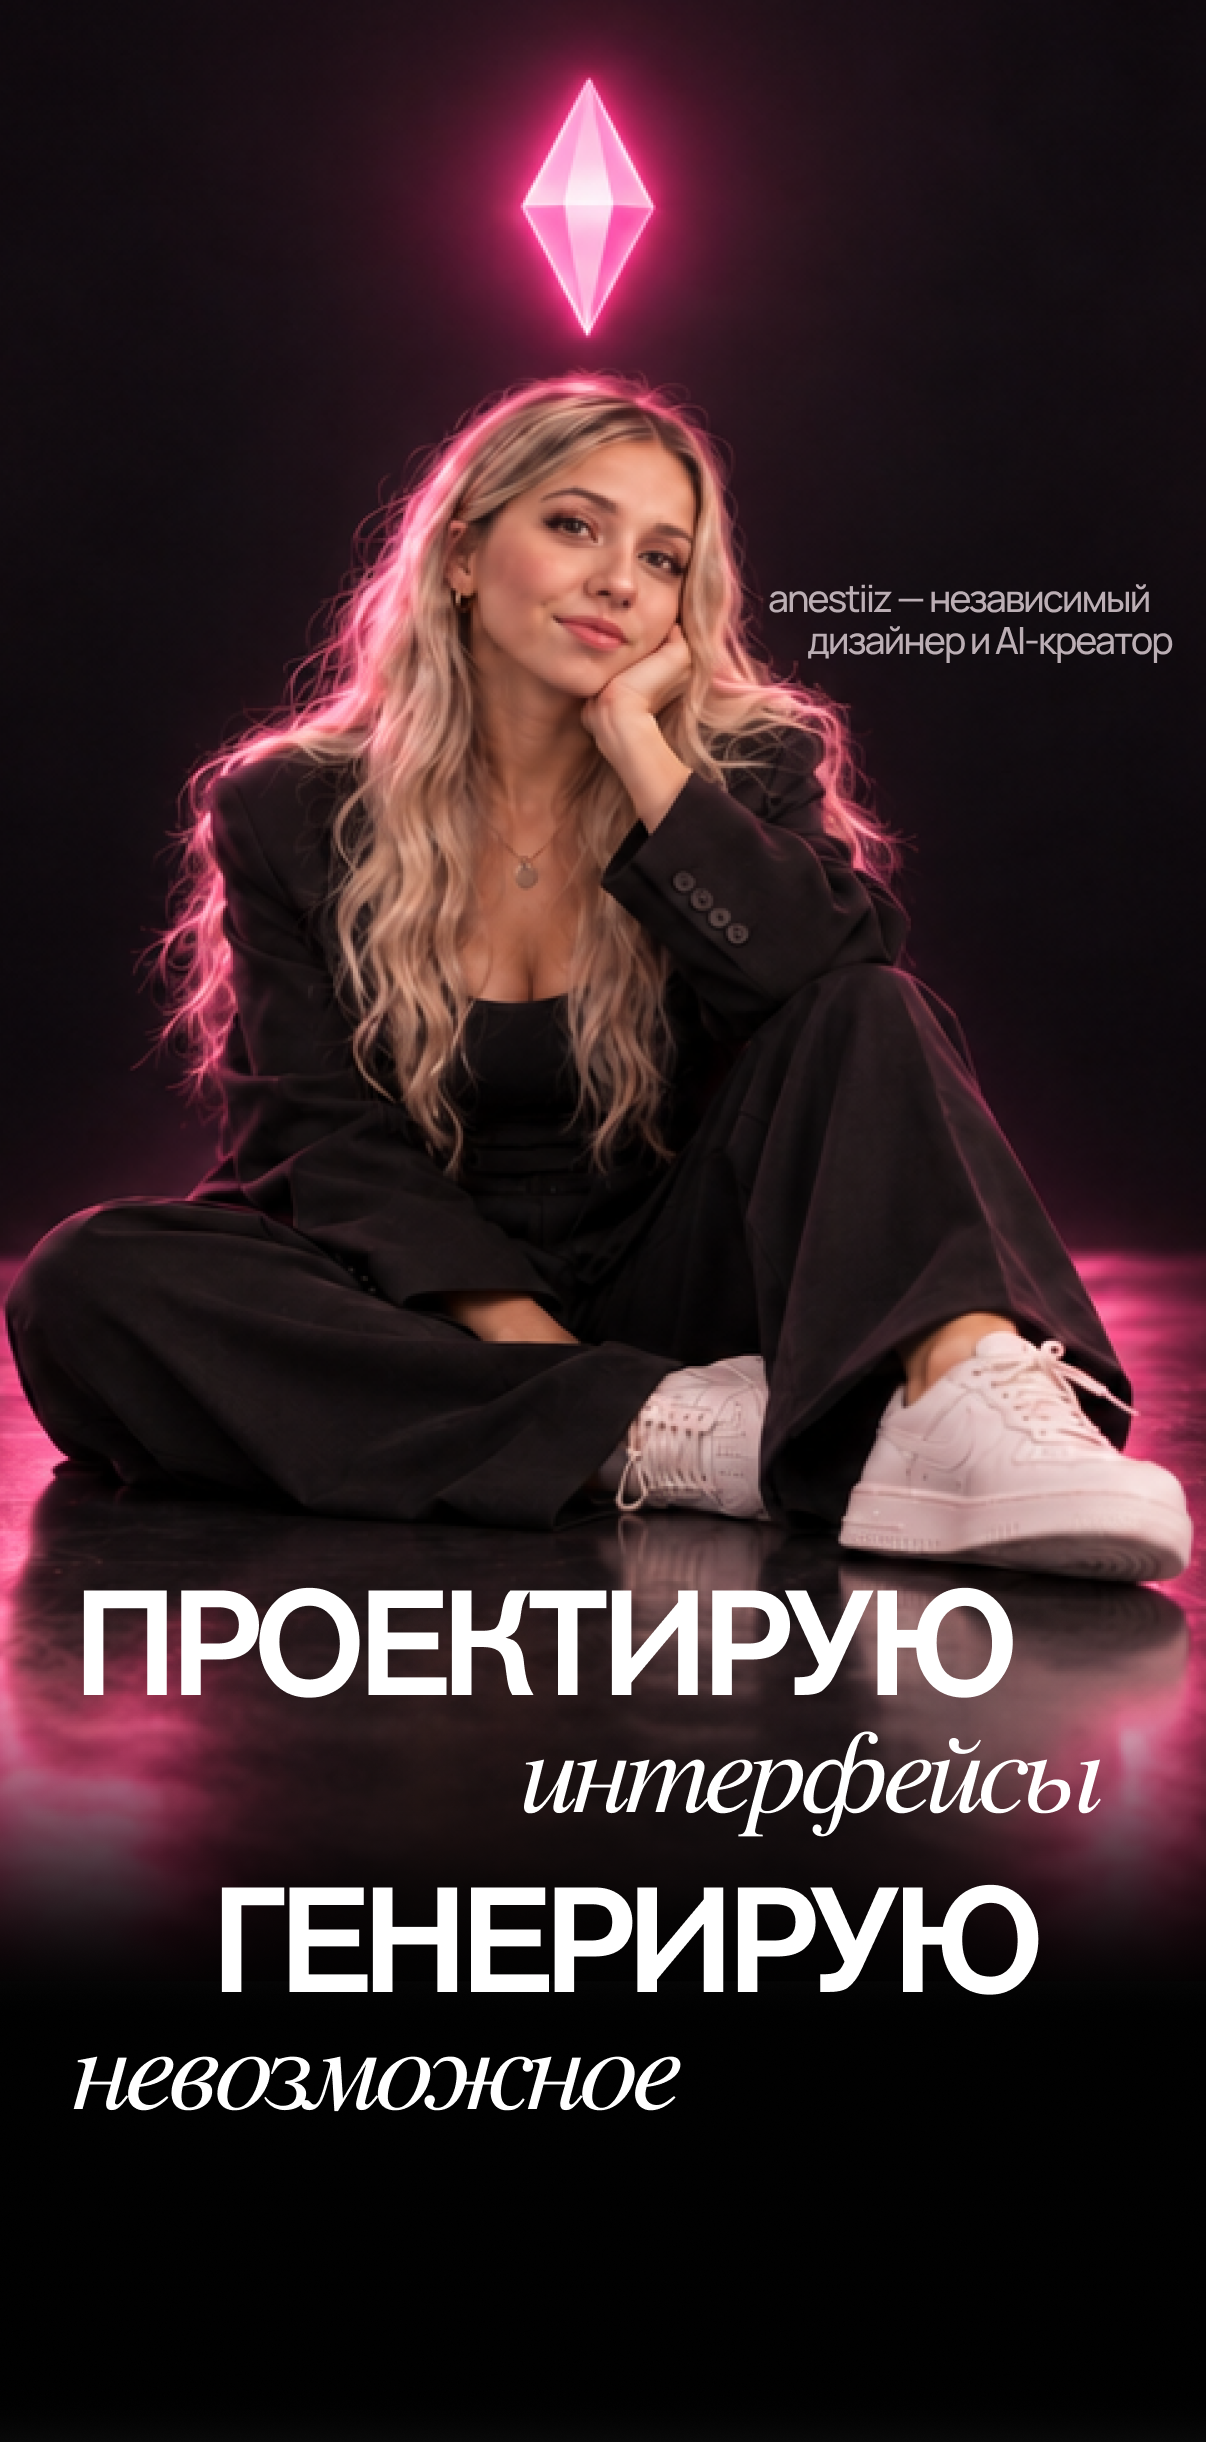
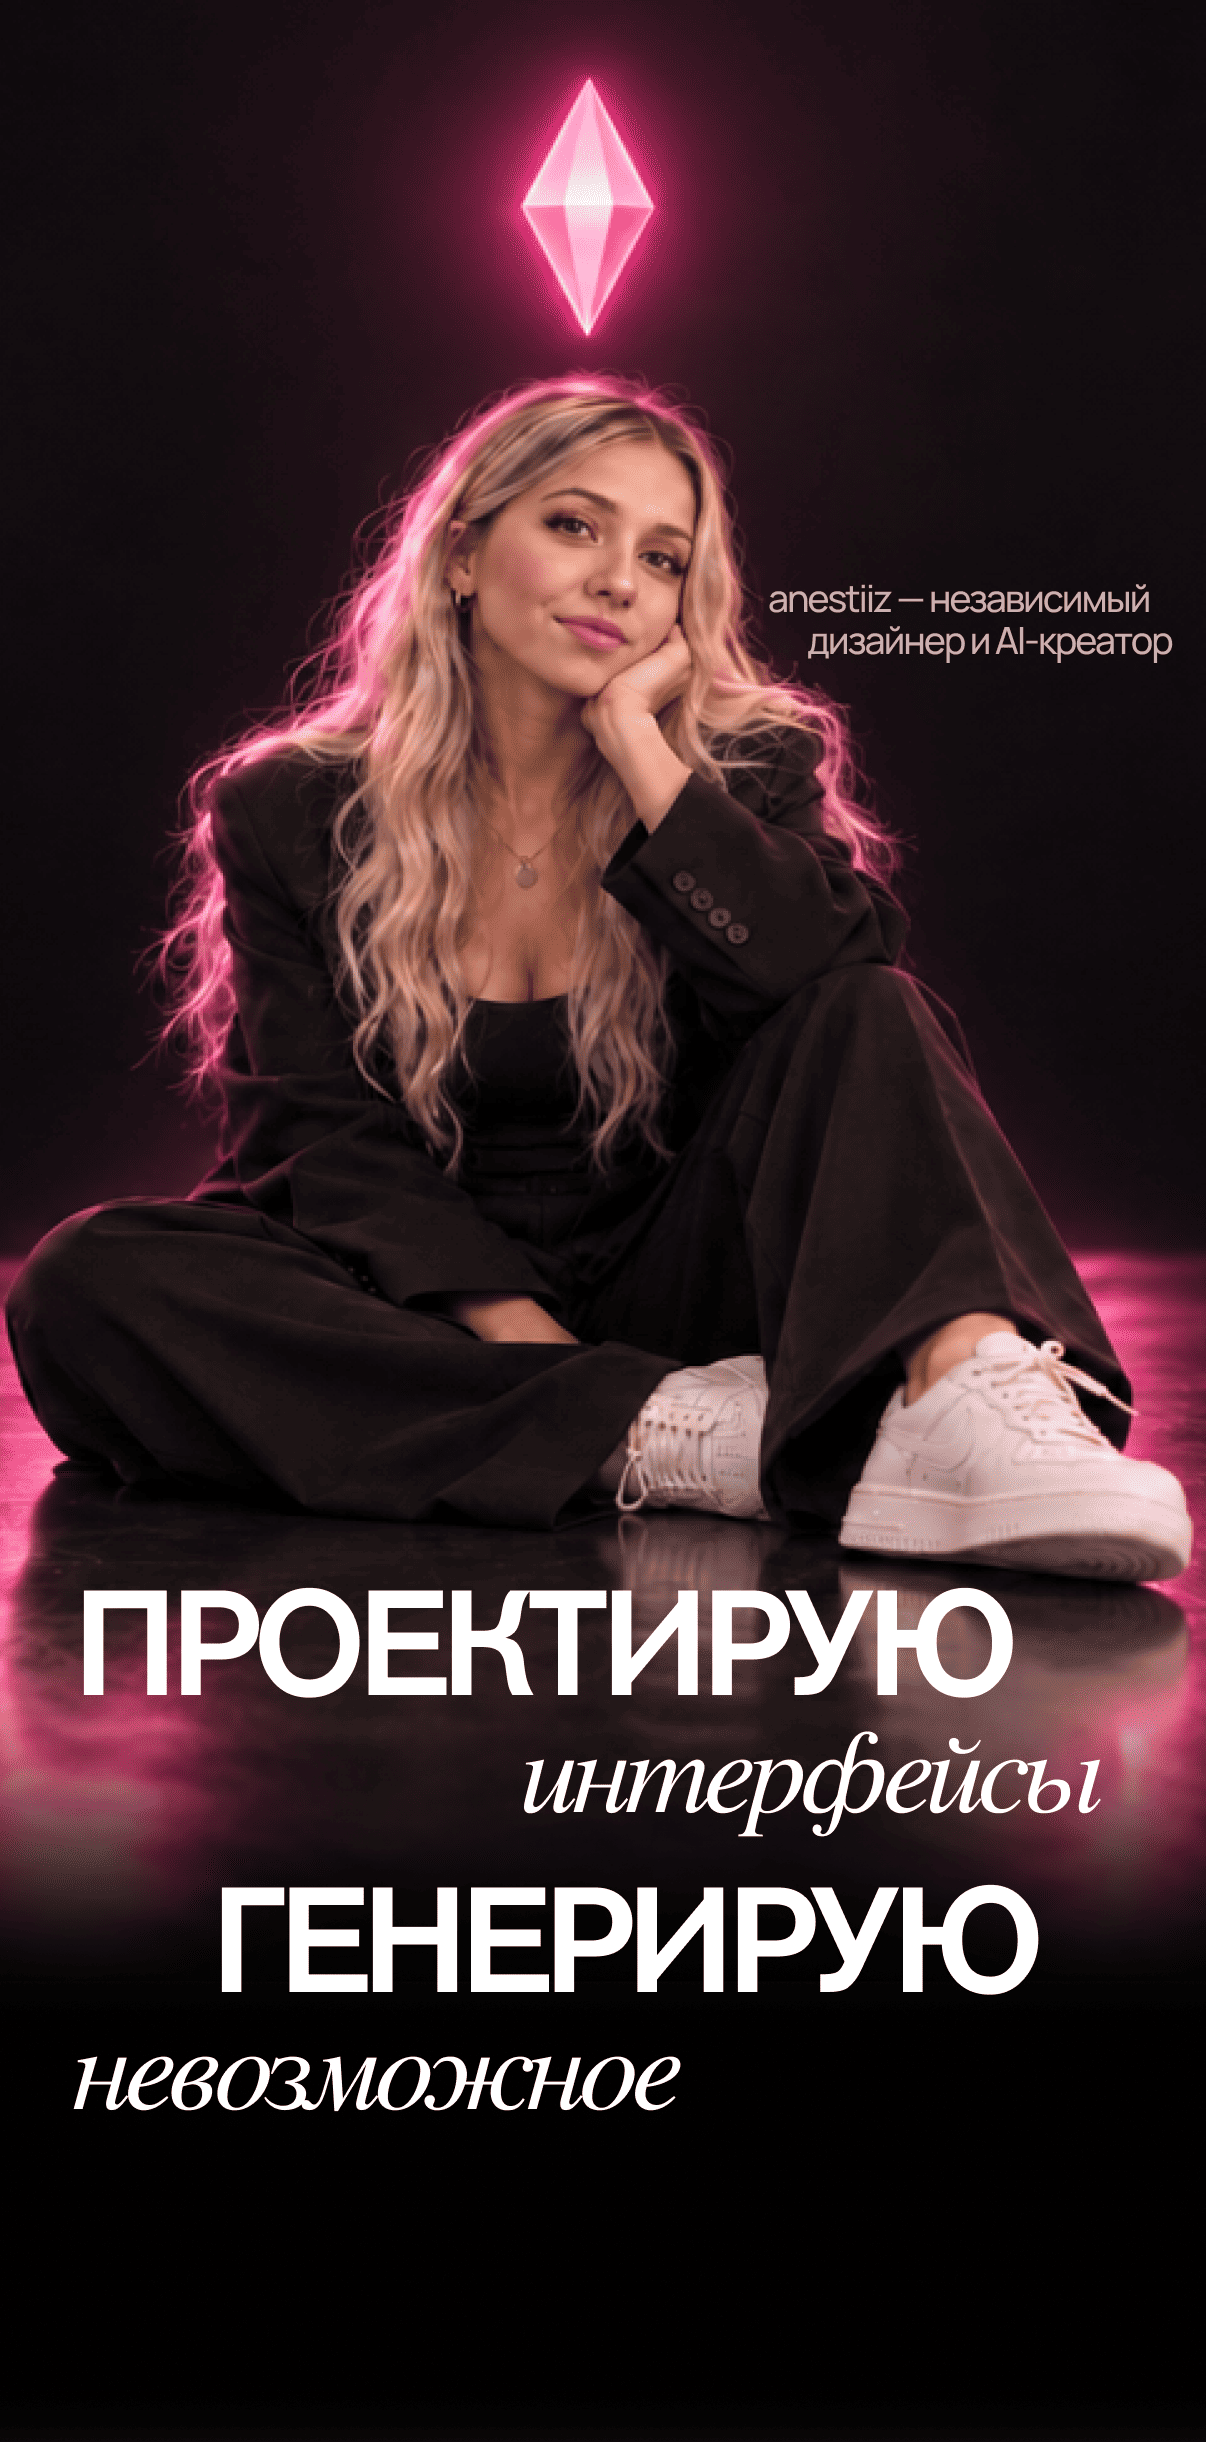
Optimize hero images and publish latest site updates

diff --git a/assets/css/site.css b/assets/css/site.css
@@ -47,7 +47,7 @@
       .scroll-circle:not(.hero-scroll) .icon-arrow-down{width:30px;height:30px}
       .work-top{grid-template-columns:1fr}
       .filters{justify-content:flex-start}
-      .about-intro{grid-template-columns:1fr}
+      .about-intro{grid-template-columns:1fr;gap:48px}
       .about-media{max-width:520px}
       .service{grid-template-columns:150px 1fr;gap:24px}
       .service>div:last-child{grid-column:2}
@@ -70,6 +70,9 @@
       .promo-overlay{padding:64px 24px 20px}.promo-overlay .echo-word{font-size:44px;line-height:44px;letter-spacing:.01em}
       .neuro-overlay{padding:64px 24px 20px}.neuro-overlay .echo-word{font-size:44px;line-height:44px;letter-spacing:.01em}
       .meta-title{font-size:24px;line-height:28px}.meta-num{font-size:17px;line-height:20px}
+      .about-intro{gap:32px}
+      .about-media{width:100%;max-width:none}
+      .about-copy p:last-child{margin-bottom:0}
       .about h2{font-size:56px;line-height:56px}.about-copy{font-size:17px;line-height:20px}
       .service{grid-template-columns:1fr;gap:12px}.service>div:last-child{grid-column:auto}
       .contact h2{font-size:56px;line-height:56px}.contact-panel{grid-template-columns:1fr}.contact-foot{grid-template-columns:1fr}.capabilities{white-space:normal}.form-options,.form-options.contact-methods{grid-template-columns:1fr 1fr}.request-form{padding:18px}
@@ -263,13 +266,26 @@
     .exp-projects-list li{padding:8px 0 8px 24px;position:relative}
     .exp-projects-list li::before{content:"→";position:absolute;left:0;top:8px;color:var(--pink);font-weight:600}
     .exp-tools{margin-top:80px;padding-top:40px;border-top:1px solid var(--line)}
-    .exp-tools .hero-menu-eyebrow{margin-bottom:32px}
-    .tools-stack{display:grid;grid-template-columns:repeat(2,minmax(0,1fr));gap:36px 56px}
-    .tool-cat-block{padding-top:16px;border-top:1px solid var(--card-line)}
-    .tool-cat{font-family:"Manrope",sans-serif;font-size:14px;line-height:28px;letter-spacing:.14em;text-transform:uppercase;color:var(--soft);margin-bottom:14px}
+    .tools-heading{display:grid;grid-template-columns:minmax(0,1fr) auto;gap:40px;align-items:end;margin-bottom:40px}
+    .exp-tools .hero-menu-eyebrow{margin-bottom:14px;color:var(--ink)}
+    .tools-heading p{max-width:620px;margin:0;color:var(--muted);font-size:20px;line-height:28px;letter-spacing:-.02em}
+    .tools-total{display:flex;align-items:flex-end;gap:14px;color:var(--ink)}
+    .tools-total strong{font-family:"FreeSerif",Georgia,serif;font-size:72px;line-height:.72;font-style:italic;font-weight:400;color:var(--pink)}
+    .tools-total span{font-size:11px;line-height:15px;letter-spacing:.12em;text-transform:uppercase;color:var(--soft)}
+    .tools-stack{counter-reset:toolcat;display:grid;grid-template-columns:repeat(2,minmax(0,1fr));gap:12px}
+    .tool-cat-block{--tool-accent:#ff4d8d;counter-increment:toolcat;position:relative;min-height:166px;padding:26px 72px 28px 28px;border:1px solid var(--card-line);border-radius:8px;background:rgba(255,255,255,.018);overflow:hidden;transition:border-color .25s ease,background .25s ease,transform .25s ease}
+    .tool-cat-block:nth-child(2),.tool-cat-block:nth-child(6){--tool-accent:#68d7ff}
+    .tool-cat-block:nth-child(3),.tool-cat-block:nth-child(7){--tool-accent:#ffd166}
+    .tool-cat-block:nth-child(4){--tool-accent:#ff4d8d}
+    .tool-cat-block:nth-child(5){--tool-accent:#8de38d}
+    .tool-cat-block::before{content:"";position:absolute;left:0;top:0;bottom:0;width:3px;background:var(--tool-accent)}
+    .tool-cat-block::after{content:counter(toolcat,decimal-leading-zero);position:absolute;right:24px;top:22px;font-family:"FreeSerif",Georgia,serif;font-size:38px;line-height:1;font-style:italic;color:var(--tool-accent);opacity:.58}
+    .tool-cat-block:hover{border-color:color-mix(in srgb,var(--tool-accent) 38%,transparent);background:rgba(255,255,255,.035);transform:translateY(-2px)}
+    .tool-cat{display:flex;align-items:center;gap:10px;font-family:"Manrope",sans-serif;font-size:13px;line-height:20px;letter-spacing:.14em;text-transform:uppercase;color:var(--ink);margin-bottom:20px}
+    .tool-cat::before{content:"";width:7px;height:7px;border-radius:50%;background:var(--tool-accent);box-shadow:0 0 14px color-mix(in srgb,var(--tool-accent) 64%,transparent);flex:0 0 auto}
     .tool-tags{display:flex;flex-wrap:wrap;gap:8px}
-    .tool-tag{display:inline-flex;align-items:center;padding:8px 14px;border-radius:999px;border:1px solid rgba(255,255,255,.14);background:rgba(255,255,255,.03);font-family:"Manrope",sans-serif;font-size:14px;line-height:20px;color:var(--ink);letter-spacing:-.1px;transition:border-color .2s ease,background .2s ease,transform .2s ease}
-    .tool-tag:hover{border-color:rgba(255,0,106,.42);background:rgba(255,0,106,.06);transform:translateY(-1px)}
+    .tool-tag{display:inline-flex;align-items:center;padding:8px 14px;border-radius:999px;border:1px solid rgba(255,255,255,.13);background:rgba(0,0,0,.2);font-family:"Manrope",sans-serif;font-size:14px;line-height:20px;color:var(--muted);letter-spacing:-.1px;transition:border-color .2s ease,background .2s ease,color .2s ease,transform .2s ease}
+    .tool-tag:hover{border-color:var(--tool-accent);background:rgba(255,255,255,.055);color:var(--ink);transform:translateY(-1px)}
     @media(max-width:1120px){
       .exp-role summary{grid-template-columns:160px 1fr 44px;gap:24px}
       .exp-body{grid-template-columns:160px 1fr;gap:24px}
@@ -297,7 +313,14 @@
       .exp-tasks li::before{top:17px;width:6px;height:6px}
       .exp-projects-list{font-size:15px;line-height:24px}
       .exp-tools{margin-top:48px;padding-top:32px}
-      .tools-stack{grid-template-columns:1fr;gap:24px}
+      .tools-heading{grid-template-columns:1fr;gap:24px;margin-bottom:28px}
+      .tools-heading p{font-size:16px;line-height:24px}
+      .tools-total{justify-content:flex-start}
+      .tools-total strong{font-size:56px}
+      .tools-stack{grid-template-columns:1fr;gap:10px}
+      .tool-cat-block{min-height:0;padding:22px 54px 24px 22px}
+      .tool-cat-block::after{right:18px;top:18px;font-size:30px}
+      .tool-cat{margin-bottom:16px;font-size:12px}
       .tool-tag{padding:6px 12px;font-size:13px}
     }
     /* AI section (inline manifesto) */

diff --git a/brief.html b/brief.html
@@ -95,13 +95,15 @@
     .form-status{font-size:14px;line-height:20px;color:var(--soft);min-height:20px;letter-spacing:-.1px}
     .form-status.is-error{color:#ff8098}
 
-    .form-success{display:none;flex-direction:column;gap:16px;padding:40px 32px;border:1px solid rgba(124,228,149,.28);border-radius:18px;background:linear-gradient(180deg,rgba(124,228,149,.06),rgba(124,228,149,.015));text-align:left}
-    .form-success.is-visible{display:flex}
-    .form-success .badge{align-self:flex-start;display:inline-flex;align-items:center;gap:8px;padding:6px 12px;border-radius:999px;border:1px solid rgba(124,228,149,.32);background:rgba(124,228,149,.08);color:#7ce495;font-size:12px;line-height:16px;font-weight:700;letter-spacing:.14em;text-transform:uppercase}
-    .form-success .badge:before{content:"";display:inline-block;width:8px;height:8px;border-radius:50%;background:#7ce495;box-shadow:0 0 0 4px rgba(124,228,149,.18)}
-    .form-success h2{margin:0;font-family:"AkzidenzGroteskPro","Helvetica Neue",Helvetica,Arial,sans-serif;font-weight:400;font-size:clamp(28px,3vw,44px);line-height:1;letter-spacing:-.03em;color:var(--ink)}
-    .form-success p{margin:0;font-size:17px;line-height:24px;color:var(--muted);letter-spacing:-.01em;max-width:44ch}
-    .request-form.is-hidden{display:none}
+    .done-swap{transition:opacity .3s ease}
+    .done-swap.is-fading{opacity:0;pointer-events:none}
+    .brief-done{padding:clamp(96px,16vh,200px) var(--pad) clamp(96px,16vh,200px);display:flex;justify-content:center}
+    .brief-done-inner{display:flex;flex-direction:column;align-items:center;gap:22px;text-align:center;max-width:560px;opacity:0;transform:translateY(8px);animation:doneEnter .45s ease .05s forwards}
+    .brief-done-check{width:56px;height:56px;display:grid;place-items:center;color:var(--ink);opacity:.85}
+    .brief-done-check svg{display:block}
+    .brief-done-title{margin:0;font-family:"AkzidenzGroteskPro","Helvetica Neue",Helvetica,Arial,sans-serif;font-weight:400;font-size:clamp(52px,6vw,104px);line-height:.9;letter-spacing:-.045em;color:var(--ink)}
+    .brief-done-note{margin:0;font-size:17px;line-height:26px;color:var(--soft);letter-spacing:-.01em;max-width:38ch}
+    @keyframes doneEnter{to{opacity:1;transform:none}}
 
     footer{display:grid;grid-template-columns:1fr auto 1fr;gap:20px;align-items:center;padding:20px var(--pad) 24px;font-size:12px;border-top:1px solid var(--line);color:var(--soft)}
     footer .top{justify-self:center}
@@ -116,6 +118,8 @@
       .option-pill{flex:1 1 calc(50% - 4px)}
       .option-pill span{padding:11px 14px}
       .request-form{padding:22px;gap:20px}
+      .brief-done-title{font-size:44px}
+      .brief-done{padding:64px var(--pad)}
     }
   </style>
   <script defer src="assets/js/analytics.js"></script>
@@ -129,6 +133,7 @@
   </header>
 
   <main>
+    <div id="mainForm" class="done-swap">
     <section class="brief-hero wrap">
       <div class="brief-eyebrow">Есть идея?</div>
       <h1>Заполни бриф</h1>
@@ -216,11 +221,20 @@
           <div class="form-status" id="formStatus" role="status" aria-live="polite"></div>
         </form>
 
-        <div class="form-success" id="formSuccess" role="status" aria-live="polite">
-          <span class="badge">Бриф отправлен</span>
-          <h2>Спасибо!</h2>
-          <p>Свяжусь с тобой по указанному контакту.</p>
+      </div>
+    </section>
+    </div>
+
+    <section class="brief-done" id="briefDone" role="status" aria-live="polite" hidden>
+      <div class="brief-done-inner">
+        <div class="brief-done-check" aria-hidden="true">
+          <svg width="44" height="44" viewBox="0 0 44 44" fill="none" xmlns="http://www.w3.org/2000/svg">
+            <circle cx="22" cy="22" r="21" stroke="currentColor" stroke-width="1.25" opacity=".35"/>
+            <path d="M14 22.5l5 5L30 16.5" stroke="currentColor" stroke-width="2" stroke-linecap="round" stroke-linejoin="round"/>
+          </svg>
         </div>
+        <h1 class="brief-done-title">Бриф отправлен!</h1>
+        <p class="brief-done-note">Спасибо! Свяжусь с тобой по указанному контакту.</p>
       </div>
     </section>
   </main>
@@ -238,7 +252,8 @@
 
     const requestForm   = document.getElementById('requestForm');
     const formStatus    = document.getElementById('formStatus');
-    const formSuccess   = document.getElementById('formSuccess');
+    const mainForm      = document.getElementById('mainForm');
+    const briefDone     = document.getElementById('briefDone');
     const submitBtn     = requestForm ? requestForm.querySelector('.form-submit') : null;
     const detailsGroup  = document.getElementById('detailsGroup');
     const contactField  = document.getElementById('contactField');
@@ -405,10 +420,13 @@
       if (kind === 'error') formStatus.classList.add('is-error');
     }
     function showSuccess() {
-      if (!formSuccess || !requestForm) return;
-      requestForm.classList.add('is-hidden');
-      formSuccess.classList.add('is-visible');
-      formSuccess.scrollIntoView({ behavior: 'smooth', block: 'center' });
+      if (!mainForm || !briefDone) return;
+      mainForm.classList.add('is-fading');
+      setTimeout(() => {
+        mainForm.hidden = true;
+        briefDone.hidden = false;
+        briefDone.scrollIntoView({ behavior: 'smooth', block: 'center' });
+      }, 300);
     }
 
     // --- Сообщение в Telegram ---

diff --git a/index.html b/index.html
@@ -6,7 +6,7 @@
   <title>anestiiz — Portfolio</title>
   <meta name="description" content="anestiiz portfolio — independent designer and AI creator.">
   <link rel="icon" type="image/png" href="assets/favicon/favicon.png"><link rel="apple-touch-icon" href="assets/favicon/favicon.png">
-  <link rel="stylesheet" href="assets/css/site.css?v=tools5">
+  <link rel="stylesheet" href="assets/css/site.css?v=tools7">
   <script defer src="assets/js/analytics.js"></script>
 </head>
 <body>
@@ -78,7 +78,7 @@
     <section id="experience" class="experience wrap">
       <div class="exp-head reveal">
         <div class="hero-menu-eyebrow">Опыт · с 2021</div>
-        <h2>Мой <em>опыт</em></h2>
+        <h2>5 лет <em>опыта</em></h2>
         <p class="exp-lead">Работаю в дизайне с 2021 года. Совмещаю продуктовые интерфейсы, руководство командой и AI-креатив — от пользовательского сценария до финального кадра.</p>
       </div>
 
@@ -195,7 +195,16 @@
       </ol>
 
       <div class="exp-tools reveal">
-        <div class="hero-menu-eyebrow">Инструменты и AI-стек</div>
+        <div class="tools-heading">
+          <div>
+            <div class="hero-menu-eyebrow">Инструменты и AI-стек</div>
+            <p>От продуктового дизайна до финального кадра — один связный рабочий процесс.</p>
+          </div>
+          <div class="tools-total" aria-label="30 инструментов">
+            <strong>30</strong>
+            <span>инструментов<br>в работе</span>
+          </div>
+        </div>
         <div class="tools-stack">
           <div class="tool-cat-block">
             <div class="tool-cat">Дизайн интерфейсов</div>
